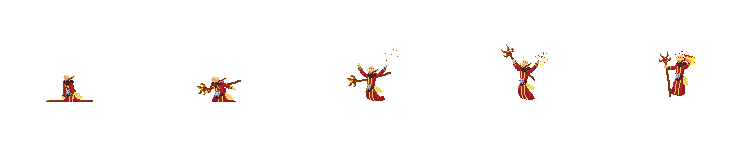
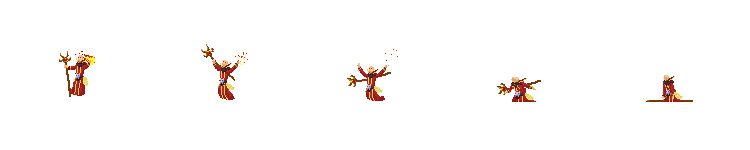
reducing default heldFrames arg, fix flipped sprite sheets

diff --git a/src/game/sprite.ts b/src/game/sprite.ts
@@ -116,7 +116,7 @@ export class Sprite extends Base {
         sprites,
         scale = 1, 
         totalFrames = 1, 
-        heldFrames = 10,
+        heldFrames = 8,
         offset = { x: 0, y: 0 },
         shouldFlip = false,
     }: SpriteProps) {
